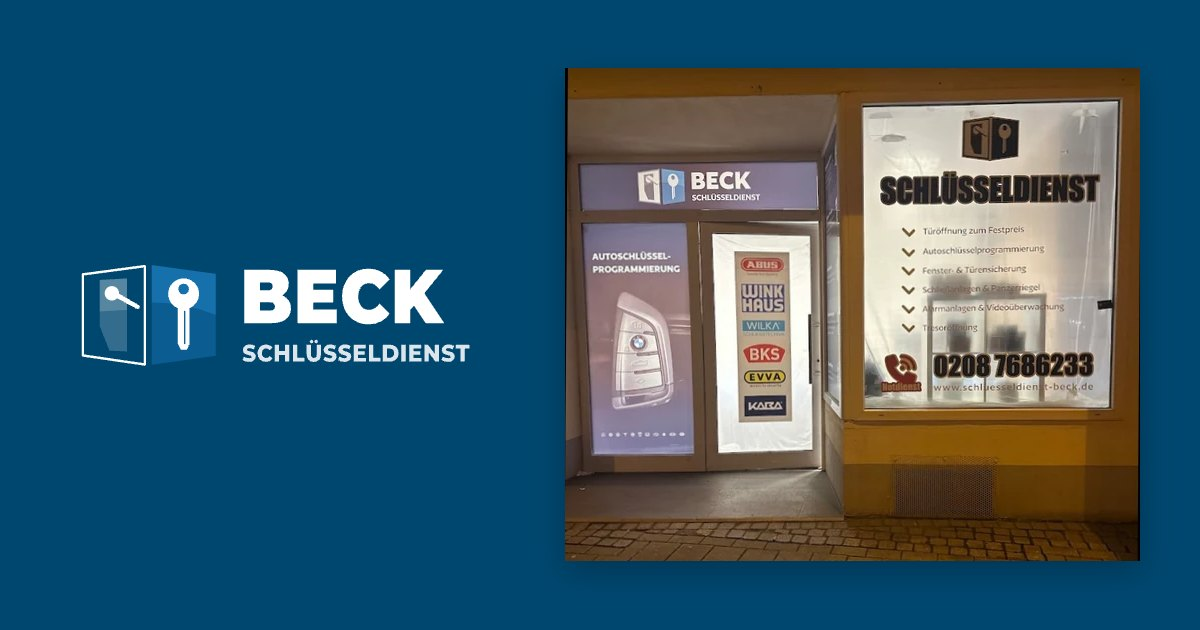
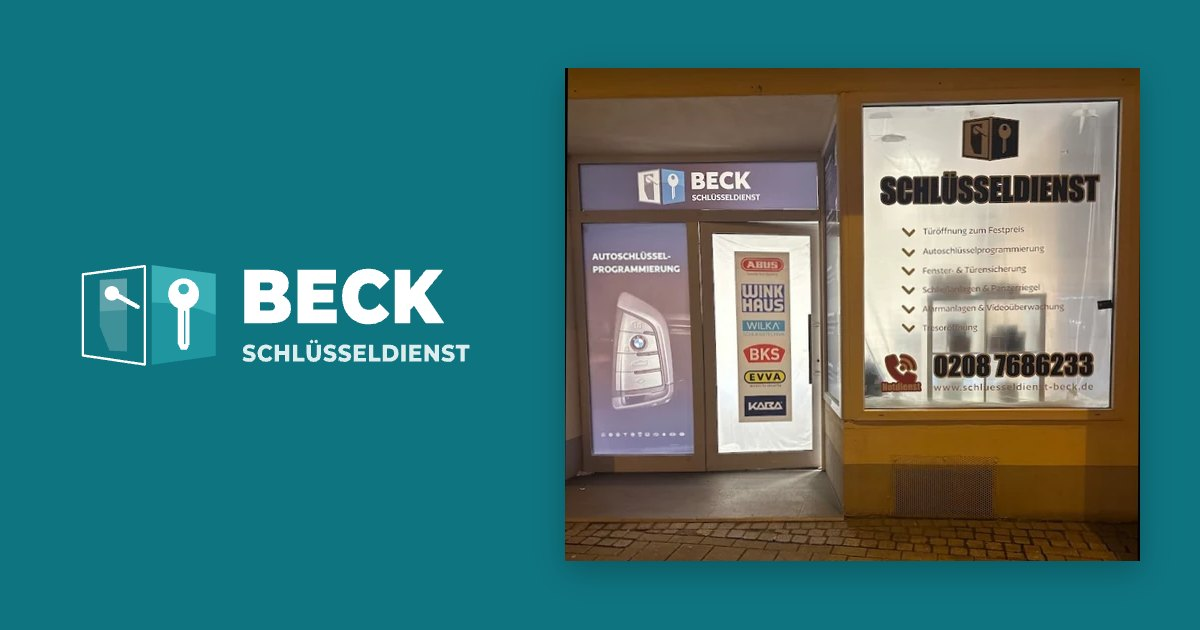
Schlüsseldienst Beck: Startseite aktualisiert (noindex)

diff --git a/index.html b/index.html
@@ -19,20 +19,20 @@
 <meta property="og:image:height" content="630">
 <meta property="og:image:alt" content="Beleuchtetes Schaufenster von Schlüsseldienst Beck mit Ladenschild und Rufnummer">
 <link rel="preload" href="assets/fonts/montserrat-wght.woff2" as="font" type="font/woff2" crossorigin>
-<link rel="icon" href="assets/favicon.svg" type="image/svg+xml">
-<link rel="apple-touch-icon" href="assets/apple-touch-icon.png">
+<link rel="icon" href="assets/favicon-tuerkis.svg" type="image/svg+xml">
+<link rel="apple-touch-icon" href="assets/apple-touch-icon-tuerkis.png">
 <style>
 @font-face { font-family: "Montserrat"; src: url("assets/fonts/montserrat-wght.woff2") format("woff2"); font-weight: 100 900; font-style: normal; font-display: swap; }
 
 :root {
   --text: #4a5163;
   --titel: #333340;
-  --blau: #00476f;
-  --blau-hell: #08588c;
-  --strich: #9fb4c3;
-  --band: #f1f3f5;
-  --linie: #dfe3e8;
-  --fuss: #e3e9ee;
+  --akzent: #0e7480;
+  --akzent-dunkel: #0b646e;
+  --strich: #7cc8c4;
+  --band: #eaf6f5;
+  --linie: #d5e6e4;
+  --fuss: #d6eceb;
   --gruen: #0f7a3f;
   --gruen-dunkel: #0b6633;
   --weiss: #ffffff;
@@ -44,11 +44,11 @@
 
 * { box-sizing: border-box; }
 html { -webkit-text-size-adjust: 100%; scroll-padding-top: calc(var(--kopf) + 12px); }
-body { margin: 0; background: var(--weiss); color: var(--text); font: 400 17px/1.75 "Montserrat", system-ui, -apple-system, "Segoe UI", sans-serif; -webkit-font-smoothing: antialiased; -webkit-tap-highlight-color: rgba(0, 71, 111, .12); }
+body { margin: 0; background: var(--weiss); color: var(--text); font: 400 17px/1.75 "Montserrat", system-ui, -apple-system, "Segoe UI", sans-serif; -webkit-font-smoothing: antialiased; -webkit-tap-highlight-color: rgba(14, 116, 128, .12); }
 img { display: block; max-width: 100%; height: auto; }
-a { color: var(--blau); text-underline-offset: 3px; text-decoration-thickness: 1px; }
+a { color: var(--akzent); text-underline-offset: 3px; text-decoration-thickness: 1px; }
 a, button, summary { touch-action: manipulation; }
-:focus-visible { outline: 2px solid var(--blau-hell); outline-offset: 3px; border-radius: 2px; }
+:focus-visible { outline: 2px solid var(--akzent-dunkel); outline-offset: 3px; border-radius: 2px; }
 h1, h2, h3 { color: var(--titel); font-weight: 500; line-height: 1.25; margin: 0; text-wrap: balance; overflow-wrap: break-word; }
 p, li, dd { text-wrap: pretty; hyphens: auto; hyphenate-limit-chars: 10 4 4; -webkit-hyphenate-limit-before: 4; -webkit-hyphenate-limit-after: 4; }
 p { margin: 0 0 1em; }
@@ -58,17 +58,17 @@ address { font-style: normal; }
 .nb { white-space: nowrap; }
 .icon { width: 1.15em; height: 1.15em; flex: none; }
 .innen { width: min(100% - 2 * var(--rand), var(--breite)); margin-inline: auto; }
-.sprung { position: absolute; left: 12px; top: -60px; z-index: 100; background: var(--blau); color: #fff; padding: 10px 16px; border-radius: var(--radius); }
+.sprung { position: absolute; left: 12px; top: -60px; z-index: 100; background: var(--akzent); color: #fff; padding: 10px 16px; border-radius: var(--radius); }
 .sprung:focus { top: 12px; }
 
 .strich { position: relative; padding-left: 22px; }
 .strich::before { content: ""; position: absolute; left: 0; top: .18em; bottom: .18em; width: 3px; border-radius: 2px; background: var(--strich); }
 
-.knopf { display: inline-flex; align-items: center; justify-content: center; gap: 10px; min-height: 48px; padding: 11px 22px; border-radius: var(--radius); font: 500 16px/1.2 inherit; font-family: inherit; text-decoration: none; color: #fff; background: var(--blau); border: 0; transition: background-color .15s ease; }
+.knopf { display: inline-flex; align-items: center; justify-content: center; gap: 10px; min-height: 48px; padding: 11px 22px; border-radius: var(--radius); font: 500 16px/1.2 inherit; font-family: inherit; text-decoration: none; color: #fff; background: var(--akzent); border: 0; transition: background-color .15s ease; }
 .knopf.wa { background: var(--gruen); }
 .knopf.klein { min-height: 44px; padding: 9px 18px; font-size: 15px; }
 @media (hover: hover) {
-  .knopf:hover { background: var(--blau-hell); }
+  .knopf:hover { background: var(--akzent-dunkel); }
   .knopf.wa:hover { background: var(--gruen-dunkel); }
   a:hover { text-decoration-thickness: 2px; }
 }
@@ -85,7 +85,7 @@ address { font-style: normal; }
 .kopf-nav a { display: flex; align-items: center; min-height: 44px; padding: 0 18px; color: var(--text); text-decoration: none; font-size: 16px; border-left: 1px solid var(--linie); }
 .kopf-nav a:first-child { border-left: 0; }
 .kopf-ruf { display: none; }
-.kopf-tel { display: inline-flex; align-items: center; justify-content: center; width: 46px; height: 46px; border-radius: var(--radius); background: var(--blau); color: #fff; }
+.kopf-tel { display: inline-flex; align-items: center; justify-content: center; width: 46px; height: 46px; border-radius: var(--radius); background: var(--akzent); color: #fff; }
 .kopf-tel .icon { width: 22px; height: 22px; }
 
 .menue { position: relative; }
@@ -127,7 +127,7 @@ address { font-style: normal; }
 .start-text p { text-wrap: wrap; max-width: 34em; }
 .start-text .knoepfe { margin-top: 28px; }
 .wertung { display: flex; align-items: center; flex-wrap: wrap; gap: 4px 10px; margin: 18px 0 0; font-size: 15px; }
-.sterne { display: inline-flex; gap: 2px; color: var(--blau); }
+.sterne { display: inline-flex; gap: 2px; color: var(--akzent); }
 .sterne .icon { width: 16px; height: 16px; }
 @media (min-width: 900px) {
   .start-raster { grid-template-columns: minmax(0, 5fr) minmax(0, 6fr); gap: clamp(40px, 6vw, 80px); }
@@ -145,7 +145,7 @@ address { font-style: normal; }
 .karte h3 { font-size: 21px; text-align: center; }
 @media (min-width: 1100px) { .karte h3 { min-height: 2.5em; } }
 .karte .preis { text-align: center; margin: 12px 0 16px; color: var(--text); font-size: 15px; }
-.karte .preis strong { display: block; color: var(--blau); font-size: 28px; font-weight: 600; line-height: 1.2; font-variant-numeric: tabular-nums; }
+.karte .preis strong { display: block; color: var(--akzent); font-size: 28px; font-weight: 600; line-height: 1.2; font-variant-numeric: tabular-nums; }
 .karte .preis.wort strong { font-size: 21px; }
 .karte p.text { flex: 1; font-size: 16px; hyphens: manual; }
 .karte .knopf { align-self: center; margin-top: 6px; }
@@ -165,21 +165,21 @@ address { font-style: normal; }
 @media (min-width: 640px) { .liste-karte ul { columns: 2; } }
 @media (min-width: 1000px) { .liste-karte ul { columns: 3; } }
 .liste-karte li { break-inside: avoid; padding: 5px 0; }
-.liste-karte li::marker { color: var(--blau); }
+.liste-karte li::marker { color: var(--akzent); }
 
 .spalten { display: grid; grid-template-columns: minmax(0, 1fr); gap: 48px; }
 @media (min-width: 900px) { .spalten { grid-template-columns: repeat(2, minmax(0, 1fr)); gap: clamp(48px, 7vw, 96px); } }
 .spalten h2 { font-size: clamp(24px, 2.6vw, 30px); margin-bottom: 22px; }
 .schritte { list-style: none; margin: 0; padding: 0; counter-reset: s; }
 .schritte li { counter-increment: s; position: relative; padding: 0 0 18px 48px; }
-.schritte li::before { content: counter(s); position: absolute; left: 0; top: 2px; width: 32px; height: 32px; border-radius: 50%; border: 1px solid var(--strich); color: var(--blau); font-weight: 600; font-size: 15px; display: grid; place-items: center; }
+.schritte li::before { content: counter(s); position: absolute; left: 0; top: 2px; width: 32px; height: 32px; border-radius: 50%; border: 1px solid var(--strich); color: var(--akzent); font-weight: 600; font-size: 15px; display: grid; place-items: center; }
 .schritte h3 { font-size: 18px; font-weight: 600; margin-bottom: 2px; }
 .schritte p { margin: 0; font-size: 16px; }
 .preisliste { margin: 0 0 22px; padding: 0; }
 .preisliste div { display: flex; justify-content: space-between; align-items: baseline; gap: 16px; padding: 14px 0; border-bottom: 1px solid var(--linie); }
 .preisliste div:first-child { border-top: 1px solid var(--linie); }
 .preisliste dt { color: var(--titel); font-weight: 500; }
-.preisliste dd { margin: 0; color: var(--blau); font-weight: 600; text-align: right; font-variant-numeric: tabular-nums; }
+.preisliste dd { margin: 0; color: var(--akzent); font-weight: 600; text-align: right; font-variant-numeric: tabular-nums; }
 @media (max-width: 479px) { .preisliste div { flex-direction: column; align-items: flex-start; gap: 2px; } .preisliste dd { text-align: left; } }
 .spalten .knopf { margin-top: 6px; }
 
@@ -204,14 +204,14 @@ address { font-style: normal; }
 .frage summary { list-style: none; display: flex; align-items: center; justify-content: space-between; gap: 16px; min-height: 64px; padding: 14px 0; cursor: pointer; }
 .frage summary::-webkit-details-marker { display: none; }
 .frage summary h3 { font-size: 18px; font-weight: 500; }
-.frage summary .icon { color: var(--blau); width: 22px; height: 22px; transition: transform .2s ease; }
+.frage summary .icon { color: var(--akzent); width: 22px; height: 22px; transition: transform .2s ease; }
 .frage[open] summary .icon { transform: rotate(180deg); }
 .frage p { margin: 0 0 20px; max-width: 40em; }
 .fragen-hinweis { margin: 24px 0 0; }
 
 .kontakt-liste { list-style: none; margin: 8px 0 28px; padding: 0; }
 .kontakt-liste li { display: flex; gap: 12px; align-items: flex-start; padding: 6px 0; }
-.kontakt-liste .icon { color: var(--blau); margin-top: .35em; }
+.kontakt-liste .icon { color: var(--akzent); margin-top: .35em; }
 .kontakt-liste a { display: inline-flex; min-height: 32px; align-items: center; }
 .kontakt-bild img { width: 100%; aspect-ratio: 4 / 3; object-fit: cover; }
 
@@ -252,7 +252,7 @@ body { --dock-platz: 76px; }
 <a class="sprung" href="#inhalt">Zum Inhalt springen</a>
 <header class="kopf">
   <div class="innen kopf-innen">
-    <a class="kopf-logo" href="#start"><img src="assets/img/logo-beck.svg" width="158" height="44" alt="Schlüsseldienst Beck"></a>
+    <a class="kopf-logo" href="#start"><img src="assets/img/logo-beck-tuerkis.svg" width="158" height="44" alt="Schlüsseldienst Beck"></a>
     <nav class="kopf-nav" aria-label="Seite">
       <a href="#leistungen">Leistungen</a>
       <a href="#ueber-uns">Über uns</a>
@@ -526,7 +526,7 @@ body { --dock-platz: 76px; }
 <footer class="fuss">
   <div class="innen fuss-oben">
     <div>
-      <a class="fuss-logo" href="#start"><img src="assets/img/logo-beck.svg" width="150" height="42" alt="Schlüsseldienst Beck" loading="lazy"></a>
+      <a class="fuss-logo" href="#start"><img src="assets/img/logo-beck-tuerkis.svg" width="150" height="42" alt="Schlüsseldienst Beck" loading="lazy"></a>
       <p>Schlüsseldienst und Sicherheits&shy;technik in Mülheim an der Ruhr. Rund um die Uhr, auch an Wochenenden und&nbsp;Feiertagen.</p>
     </div>
     <nav aria-labelledby="fuss-leistungen">
